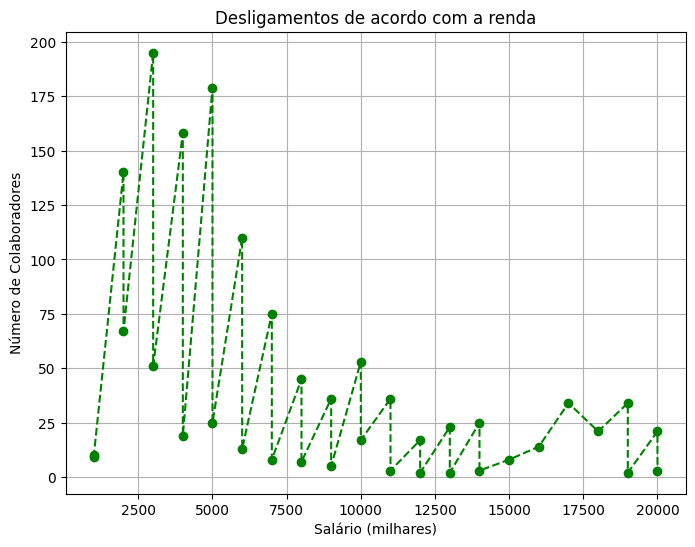
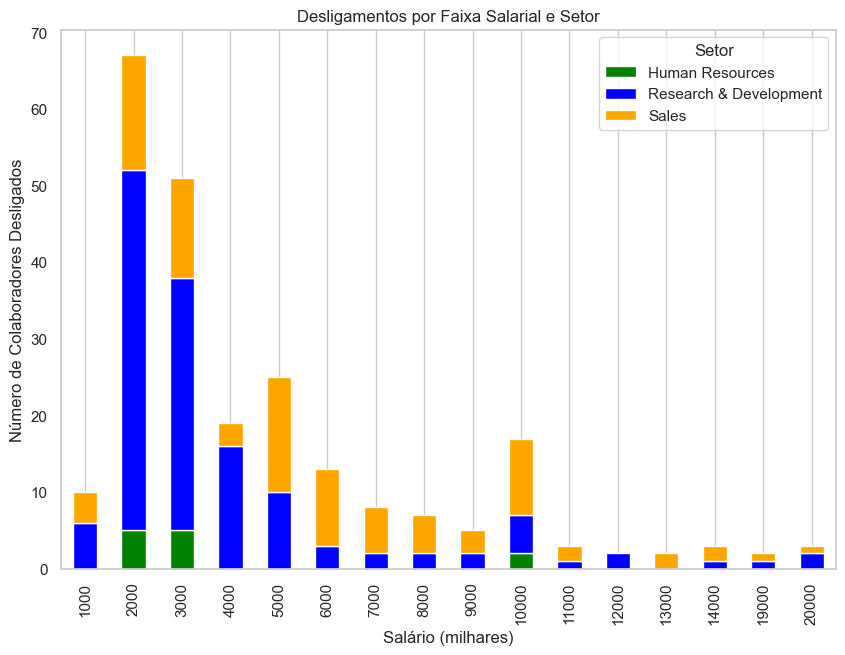
Nova Atuazalizacao Final

diff --git a/projeto_ibm_py.py b/projeto_ibm_py.py
@@ -7,12 +7,22 @@ import seaborn as sns
 from feature_engine import encoding
 from sklearn import tree
 import plotly.express as px
+import numpy as np
 
 # Carregando o DataFrame
 df = pd.read_csv("C:/Users/henri/Desktop/IBM/WA_Fn-UseC_-HR-Employee-Attrition.csv")
 
-# Exibir as primeiras linhas do DataFrame
-print(df.head())
+# Exibir as primeiras linhas do DataFrame e entendendo o DataFrame
+
+print(df.head(3))
+df.shape
+df.columns
+df.describe()
+df.describe(include ='all')
+df.info()
+
+df.isnull().any()
+
 
 # Convertendo variáveis categóricas
 df['Attrition'] = df['Attrition'].map({'Yes': 1, 'No': 0}) # Alterando os valores de Attrition para valores binarios
@@ -31,24 +41,37 @@ plt.legend()
 plt.grid(True)
 plt.show()
 
+
 # Análise da Renda dos Colaboradores e como ela influencia nos desligamentos
-renda_idade = df.groupby(['MonthlyIncome', 'Attrition']).size().reset_index(name='Count')
+
+filtro_desligado = df[df['Attrition'] == 1]
+renda_idade = filtro_desligado.groupby(['MonthlyIncome', 'Attrition','Department']).size().reset_index(name='Count')
 renda_idade['MonthlyIncome'] = pd.to_numeric(renda_idade['MonthlyIncome'], errors='coerce')
 renda_idade['MonthlyIncome'] = renda_idade['MonthlyIncome'].round(-3)  # Arredondar para o milhar mais próximo
-renda_idade = renda_idade.groupby(['MonthlyIncome', 'Attrition']).sum().reset_index()
+renda_idade = renda_idade.groupby(['MonthlyIncome', 'Attrition','Department']).sum().reset_index()
 
-# Montagem de gráfico de renda
-plt.figure(figsize=(8, 6))
-plt.plot(renda_idade['MonthlyIncome'], renda_idade['Count'], marker='o', linestyle='dashed', color='green')
-plt.title('Desligamentos de acordo com a renda')
+pivot_data = renda_idade.pivot_table(index='MonthlyIncome', columns='Department', values='Count', fill_value=0)
+colors = {
+    'Research & Development': 'blue',
+    'Sales': 'orange',
+    'Human Resources': 'green'
+}
+
+pivot_data.plot(kind='bar', stacked=True, figsize=(10, 7), color=[colors[col] for col in pivot_data.columns])
+
+#Montagem Grafico
+
+plt.title('Desligamentos por Faixa Salarial e Setor')
 plt.xlabel('Salário (milhares)')
-plt.ylabel('Número de Colaboradores')
-plt.grid(True)
+plt.ylabel('Número de Colaboradores Desligados')
+plt.legend(title='Setor')
+plt.grid(axis='y')
 plt.show()
 
 # Tempo de trabalho por Salário
 
 media_salarial = df.groupby('TotalWorkingYears')['MonthlyIncome'].mean().reset_index()
+
 
 # Plotando o gráfico da média salarial por anos de empresa
 plt.figure(figsize=(8, 6))
@@ -78,14 +101,6 @@ plt.ylabel('Média Salarial')
 plt.legend(title='Departamento')
 plt.grid(True)
 plt.show()
-
-
-## novo
-
-import pandas as pd
-import matplotlib.pyplot as plt
-
-# Supondo que df seja o seu DataFrame original e que a coluna 'Attrition' seja binária (1 para desligado, 0 para não desligado)
 
 # 1. Filtrar os funcionários com Attrition = 1
 desligados = df[df['Attrition'] == 1]
@@ -170,69 +185,44 @@ plt.show()
 # Agrupar por BusinessTravel e Department para obter a contagem de pessoas
 work_travel = df.groupby(['BusinessTravel', 'Department']).size().reset_index(name='Count')
 
-# Criar o gráfico
-sns.set_palette('deep')
-plt.figure(figsize=(15, 6))
-
-# Plotar as barras empilhadas para cada departamento
-sns.barplot(x='BusinessTravel', y='Count', hue='Department', data=work_travel)
-
-# Adicionar rótulos com a contagem de pessoas
-for i in range(work_travel.shape[0]):
-    plt.text(
-        i - 0.2, 
-        work_travel.iloc[i]['Count'] + 5,  # Posicionar o texto acima da barra
-        f"N={work_travel.iloc[i]['Count']}", 
-        ha='center', 
-        va='bottom', 
-        fontsize=12
-    )
-
 # Configurar o gráfico
 fig = px.bar(work_travel, x='Department', y='Count', color='BusinessTravel')
 fig.show()
 
 
-# Preparar dados para árvore de decisão
+# Correlação de Pearson
 
-features = [ "MonthlyIncome","Department","WorkLifeBalance"]
+A = df['WorkLifeBalance']
+B = df['MonthlyIncome']
+ 
+ # Calculando Correlacao      ]
+correlacao = np.corrcoef(A,B)
+print(f"Correlaçao de Pearson: {correlacao}")
+# Montando Grafico :
+sns.lmplot(x='WorkLifeBalance', y='MonthlyIncome',data=df , ci=None)
 
-# Converter variáveis categóricas
-cat_features = ['Department']
-
-# Selecionar as características
-X = df[features]
-
-# Codificar variáveis categóricas
-onehot = encoding.OneHotEncoder(variables=cat_features)
-onehot.fit(X)
-X_encoded = onehot.transform(X)
-
-# Ajustar o modelo de árvore de decisão
-y = df['Attrition']
-arvore = tree.DecisionTreeClassifier(max_depth=3)
-arvore.fit(X_encoded, y)
-
-# Verificar as colunas em X_encoded
-print("Colunas em X_encoded:", X_encoded.columns)
-
-# Verificar as classes usadas na árvore
-print("Classes na árvore:", arvore.classes_)
-
-# Plotar a árvore de decisão
-plt.figure(dpi=600)
-tree.plot_tree(
-    arvore,
-    class_names=[str(cls) for cls in arvore.classes_],  # Convertendo classes para strings
-    feature_names=X_encoded.columns.tolist(),  # Convertendo colunas para lista
-    filled=True,
-    max_depth=3
-)
+#Rotulos 
+plt.title('Correlação entre WorkLifeBalance e MonthlyIncome')
+plt.xlabel('WorkLifeBalance')
+plt.ylabel('MontlyIncome')
 plt.show()
 
+# Correlação de Pearson para Distance From Home
 
+A = df['WorkLifeBalance']
+B = df['DistanceFromHome']
+ 
+ # Calculando Correlacao      ]
+correlacao = np.corrcoef(A,B)
+print(f"Correlaçao de Pearson: {correlacao}")
+# Montando Grafico :
+sns.lmplot(x='WorkLifeBalance', y='DistanceFromHome',data=df , ci=None)
 
-
+#Rotulos 
+plt.title('Correlação entre WorkLifeBalance e DistanceFromHome')
+plt.xlabel('WorkLifeBalance')
+plt.ylabel('DistanceFromHome')
+plt.show()
 
 
     ##Subir Nova Atualização
